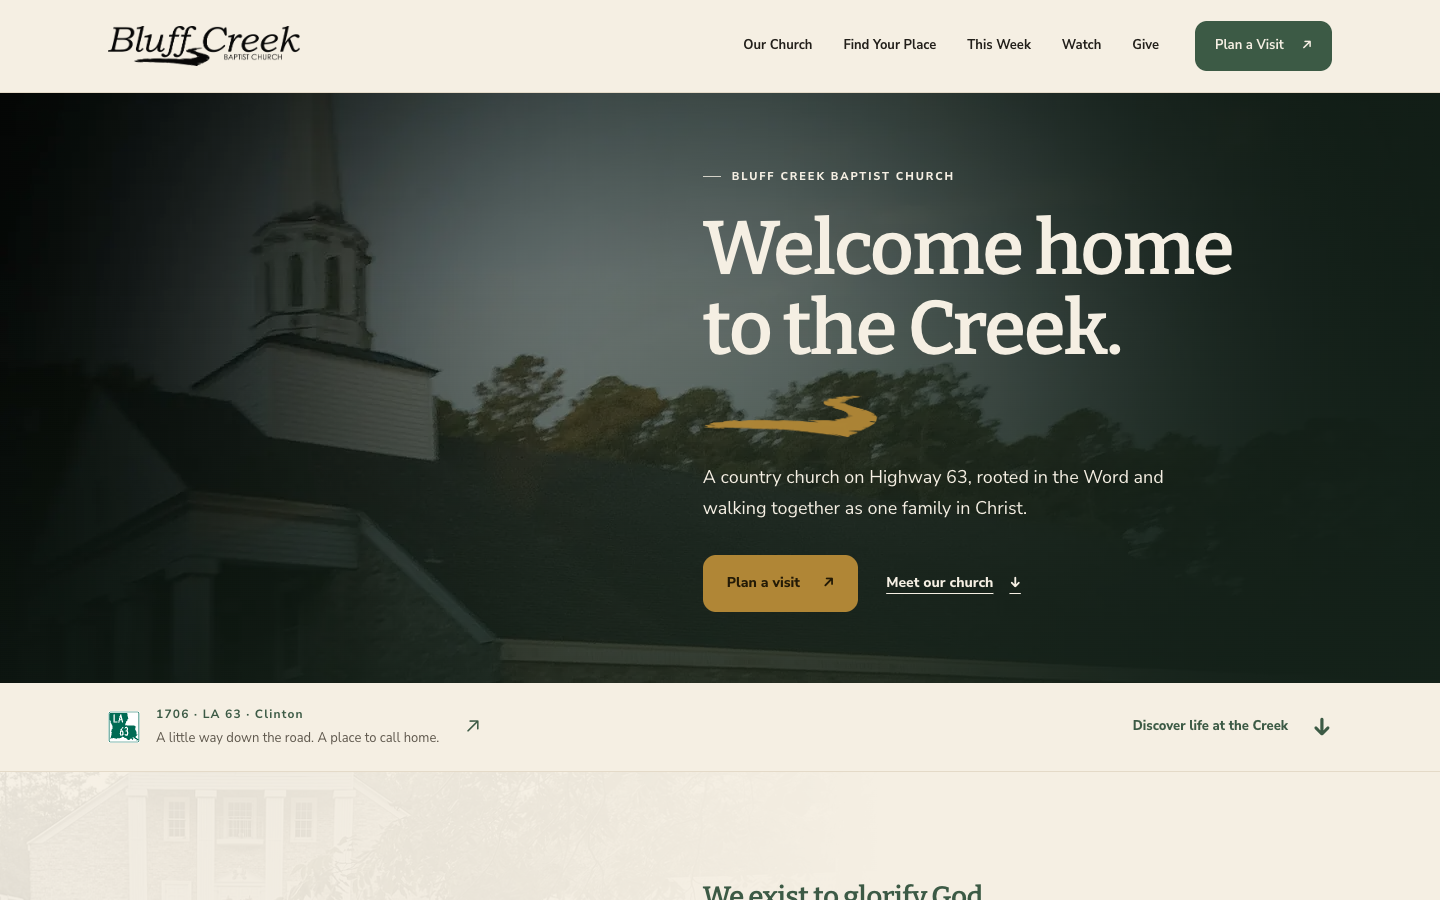
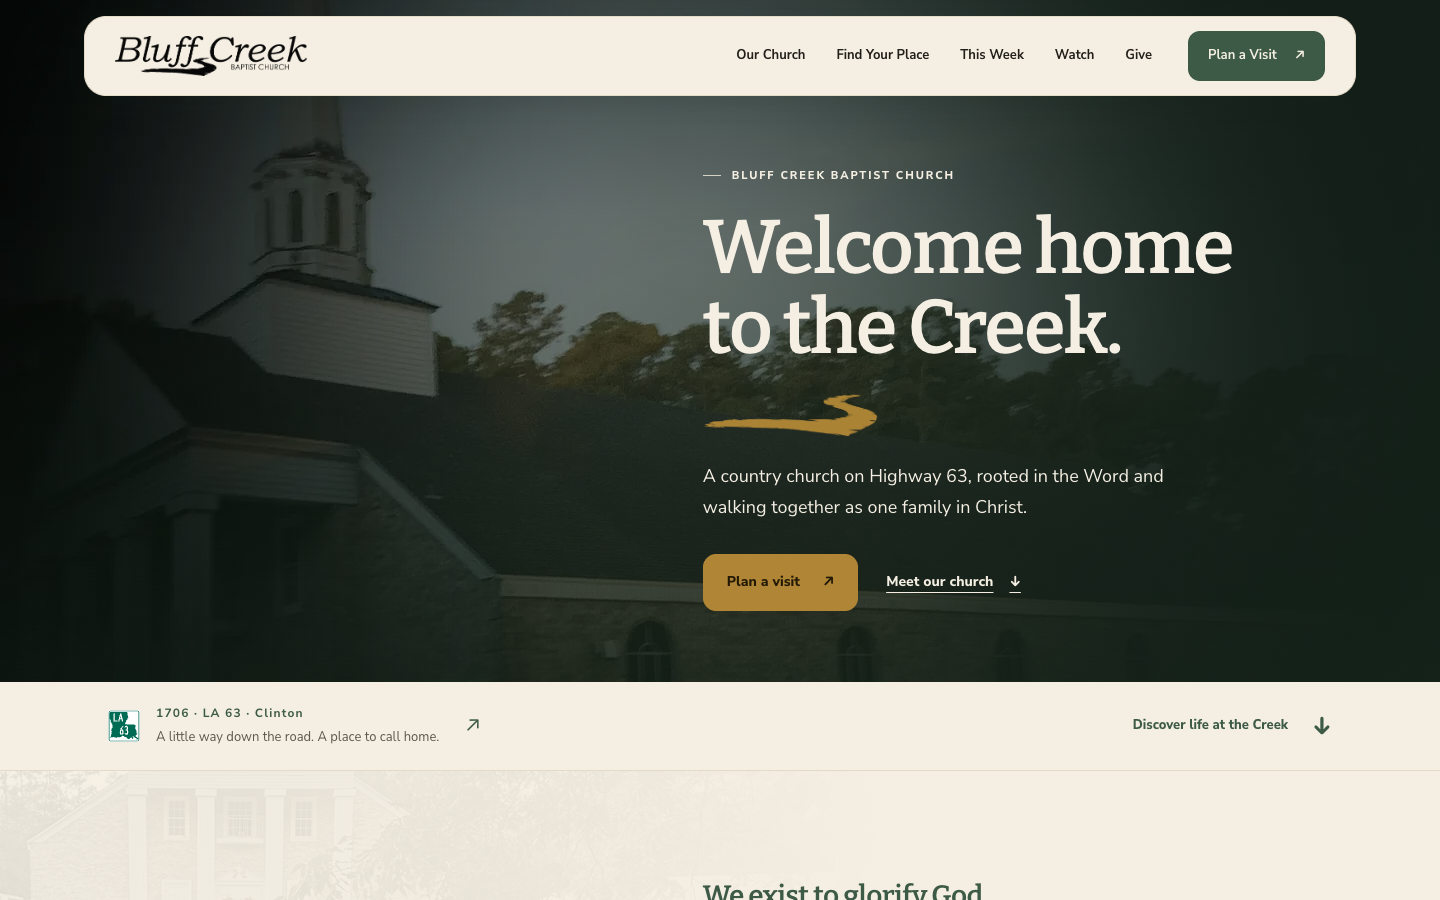
Float rounded Homestead navigation over the opening photograph

diff --git a/css/polish.css b/css/polish.css
@@ -526,11 +526,13 @@ footer a:focus-visible,.top a:focus-visible{outline-color:#e5c76f}
 /* Homepage: clear figure–ground, one primary action, and a sequence of
    place / belonging / worship / gathering / first visit. See the rationale. */
 .home-hero{position:relative;isolation:isolate;overflow:hidden;width:100vw;margin-left:calc(50% - 50vw);background:var(--pine-deep);color:var(--ivory)}
+.editorial.page-index .top{padding:16px 24px;margin-bottom:-112px;background:transparent;border:0;backdrop-filter:none}
+.editorial.page-index .top .wrap{height:80px;max-width:1272px;padding:0 30px;background:var(--ivory);border:1px solid var(--line);border-radius:22px;box-shadow:0 8px 24px rgba(22,37,28,.12)}
 .home-hero-photo{position:absolute;inset:0;z-index:-2}
 .home-hero-photo picture{display:block;width:100%;height:100%}
 .home-hero-photo img{width:100%;height:100%;object-fit:cover;object-position:center 32%}
 .home-hero::after{content:"";position:absolute;inset:0;z-index:-1;pointer-events:none;background:linear-gradient(90deg,rgba(22,37,28,.12),rgba(22,37,28,.56) 46%,rgba(22,37,28,.8)),linear-gradient(0deg,rgba(22,37,28,.5),transparent 70%)}
-.editorial .home-hero-grid{min-height:590px;display:grid;grid-template-columns:.9fr 1.1fr;gap:80px;align-items:center;padding-top:64px;padding-bottom:70px}
+.editorial .home-hero-grid{min-height:682px;display:grid;grid-template-columns:.9fr 1.1fr;gap:80px;align-items:center;padding-top:156px;padding-bottom:70px}
 .home-hero-copy{grid-column:2}
 .editorial .home-hero .eye{color:var(--ivory);margin:0 0 23px}
 .editorial .home-hero h1{font:600 clamp(48px,5.3vw,76px)/1.06 "Bitter",Georgia,serif;letter-spacing:-.025em;color:var(--ivory);margin:0}
@@ -596,8 +598,15 @@ footer a:focus-visible,.top a:focus-visible{outline-color:#e5c76f}
   .home-scroll{gap:14px;font-size:12px}
   .home-address span span{font-size:12px}
 }
+@media(max-width:1040px){
+  .editorial .home-hero-grid{min-height:672px;padding-top:146px}
+  .editorial.page-index nav.main{top:104px;max-height:calc(100dvh - 128px)}
+}
 @media(max-width:760px){
-  .editorial .home-hero-grid{display:block;min-height:590px;padding-top:156px;padding-bottom:48px}
+  .editorial.page-index .top{padding:12px;margin-bottom:-92px}
+  .editorial.page-index .top .wrap{height:68px;padding:0 18px;border-radius:18px;gap:12px}
+  .editorial.page-index nav.main{top:88px;left:12px;right:12px;max-height:calc(100dvh - 104px)}
+  .editorial .home-hero-grid{display:block;min-height:667px;padding-top:233px;padding-bottom:48px}
   .home-hero::after{background:linear-gradient(0deg,rgba(22,37,28,.92),rgba(22,37,28,.68) 70%,rgba(22,37,28,.25))}
   .home-hero-photo img{object-position:15% center}
   .editorial .home-hero h1{font-size:clamp(38px,10.5vw,56px)}
@@ -638,6 +647,7 @@ footer a:focus-visible,.top a:focus-visible{outline-color:#e5c76f}
   .home-pastor-note .textlink{margin-top:14px}
 }
 @media(max-width:380px){
+  .editorial.page-index .brand img{width:150px}
   .home-address span span{display:none}
   .home-hero .actions{gap:12px}
   .hero-secondary{gap:8px;font-size:12px}

diff --git a/about.html b/about.html
@@ -27,13 +27,18 @@
 <link rel="stylesheet" href="css/polish.css">
 <noscript><style>
 #cform{display:none}
+.editorial.page-index .top{margin-bottom:0;background:var(--ivory)}
+.editorial.page-index .home-hero-grid{min-height:590px;padding-top:64px}
 @media(max-width:1040px){
   .editorial .top{position:static}
   .editorial .top .wrap{height:auto;min-height:82px;flex-wrap:wrap;padding-top:14px;padding-bottom:14px}
+  .editorial.page-index .top .wrap{height:auto;min-height:68px;padding-top:14px;padding-bottom:14px}
+  .editorial.page-index nav.main{max-height:none}
   .editorial .burger{display:none}
   .editorial nav.main{display:flex;position:static;flex-direction:row;flex-wrap:wrap;width:100%;max-height:none;overflow:visible;border:0;box-shadow:none;padding:0}
   .editorial nav.main a.cta{margin:0}
 }
+@media(max-width:760px){.editorial.page-index .home-hero-grid{padding-top:156px}}
 </style></noscript>
 <script type="application/ld+json">{
   "@context": "https://schema.org",

diff --git a/beliefs.html b/beliefs.html
@@ -27,13 +27,18 @@
 <link rel="stylesheet" href="css/polish.css">
 <noscript><style>
 #cform{display:none}
+.editorial.page-index .top{margin-bottom:0;background:var(--ivory)}
+.editorial.page-index .home-hero-grid{min-height:590px;padding-top:64px}
 @media(max-width:1040px){
   .editorial .top{position:static}
   .editorial .top .wrap{height:auto;min-height:82px;flex-wrap:wrap;padding-top:14px;padding-bottom:14px}
+  .editorial.page-index .top .wrap{height:auto;min-height:68px;padding-top:14px;padding-bottom:14px}
+  .editorial.page-index nav.main{max-height:none}
   .editorial .burger{display:none}
   .editorial nav.main{display:flex;position:static;flex-direction:row;flex-wrap:wrap;width:100%;max-height:none;overflow:visible;border:0;box-shadow:none;padding:0}
   .editorial nav.main a.cta{margin:0}
 }
+@media(max-width:760px){.editorial.page-index .home-hero-grid{padding-top:156px}}
 </style></noscript>
 <script type="application/ld+json">{
   "@context": "https://schema.org",

diff --git a/contact.html b/contact.html
@@ -27,13 +27,18 @@
 <link rel="stylesheet" href="css/polish.css">
 <noscript><style>
 #cform{display:none}
+.editorial.page-index .top{margin-bottom:0;background:var(--ivory)}
+.editorial.page-index .home-hero-grid{min-height:590px;padding-top:64px}
 @media(max-width:1040px){
   .editorial .top{position:static}
   .editorial .top .wrap{height:auto;min-height:82px;flex-wrap:wrap;padding-top:14px;padding-bottom:14px}
+  .editorial.page-index .top .wrap{height:auto;min-height:68px;padding-top:14px;padding-bottom:14px}
+  .editorial.page-index nav.main{max-height:none}
   .editorial .burger{display:none}
   .editorial nav.main{display:flex;position:static;flex-direction:row;flex-wrap:wrap;width:100%;max-height:none;overflow:visible;border:0;box-shadow:none;padding:0}
   .editorial nav.main a.cta{margin:0}
 }
+@media(max-width:760px){.editorial.page-index .home-hero-grid{padding-top:156px}}
 </style></noscript>
 <script type="application/ld+json">{
   "@context": "https://schema.org",

diff --git a/give.html b/give.html
@@ -27,13 +27,18 @@
 <link rel="stylesheet" href="css/polish.css">
 <noscript><style>
 #cform{display:none}
+.editorial.page-index .top{margin-bottom:0;background:var(--ivory)}
+.editorial.page-index .home-hero-grid{min-height:590px;padding-top:64px}
 @media(max-width:1040px){
   .editorial .top{position:static}
   .editorial .top .wrap{height:auto;min-height:82px;flex-wrap:wrap;padding-top:14px;padding-bottom:14px}
+  .editorial.page-index .top .wrap{height:auto;min-height:68px;padding-top:14px;padding-bottom:14px}
+  .editorial.page-index nav.main{max-height:none}
   .editorial .burger{display:none}
   .editorial nav.main{display:flex;position:static;flex-direction:row;flex-wrap:wrap;width:100%;max-height:none;overflow:visible;border:0;box-shadow:none;padding:0}
   .editorial nav.main a.cta{margin:0}
 }
+@media(max-width:760px){.editorial.page-index .home-hero-grid{padding-top:156px}}
 </style></noscript>
 <script type="application/ld+json">{
   "@context": "https://schema.org",

diff --git a/index.html b/index.html
@@ -27,13 +27,18 @@
 <link rel="stylesheet" href="css/polish.css">
 <noscript><style>
 #cform{display:none}
+.editorial.page-index .top{margin-bottom:0;background:var(--ivory)}
+.editorial.page-index .home-hero-grid{min-height:590px;padding-top:64px}
 @media(max-width:1040px){
   .editorial .top{position:static}
   .editorial .top .wrap{height:auto;min-height:82px;flex-wrap:wrap;padding-top:14px;padding-bottom:14px}
+  .editorial.page-index .top .wrap{height:auto;min-height:68px;padding-top:14px;padding-bottom:14px}
+  .editorial.page-index nav.main{max-height:none}
   .editorial .burger{display:none}
   .editorial nav.main{display:flex;position:static;flex-direction:row;flex-wrap:wrap;width:100%;max-height:none;overflow:visible;border:0;box-shadow:none;padding:0}
   .editorial nav.main a.cta{margin:0}
 }
+@media(max-width:760px){.editorial.page-index .home-hero-grid{padding-top:156px}}
 </style></noscript>
 <script type="application/ld+json">{
   "@context": "https://schema.org",

diff --git a/membership.html b/membership.html
@@ -27,13 +27,18 @@
 <link rel="stylesheet" href="css/polish.css">
 <noscript><style>
 #cform{display:none}
+.editorial.page-index .top{margin-bottom:0;background:var(--ivory)}
+.editorial.page-index .home-hero-grid{min-height:590px;padding-top:64px}
 @media(max-width:1040px){
   .editorial .top{position:static}
   .editorial .top .wrap{height:auto;min-height:82px;flex-wrap:wrap;padding-top:14px;padding-bottom:14px}
+  .editorial.page-index .top .wrap{height:auto;min-height:68px;padding-top:14px;padding-bottom:14px}
+  .editorial.page-index nav.main{max-height:none}
   .editorial .burger{display:none}
   .editorial nav.main{display:flex;position:static;flex-direction:row;flex-wrap:wrap;width:100%;max-height:none;overflow:visible;border:0;box-shadow:none;padding:0}
   .editorial nav.main a.cta{margin:0}
 }
+@media(max-width:760px){.editorial.page-index .home-hero-grid{padding-top:156px}}
 </style></noscript>
 <script type="application/ld+json">{
   "@context": "https://schema.org",

diff --git a/ministries.html b/ministries.html
@@ -27,13 +27,18 @@
 <link rel="stylesheet" href="css/polish.css">
 <noscript><style>
 #cform{display:none}
+.editorial.page-index .top{margin-bottom:0;background:var(--ivory)}
+.editorial.page-index .home-hero-grid{min-height:590px;padding-top:64px}
 @media(max-width:1040px){
   .editorial .top{position:static}
   .editorial .top .wrap{height:auto;min-height:82px;flex-wrap:wrap;padding-top:14px;padding-bottom:14px}
+  .editorial.page-index .top .wrap{height:auto;min-height:68px;padding-top:14px;padding-bottom:14px}
+  .editorial.page-index nav.main{max-height:none}
   .editorial .burger{display:none}
   .editorial nav.main{display:flex;position:static;flex-direction:row;flex-wrap:wrap;width:100%;max-height:none;overflow:visible;border:0;box-shadow:none;padding:0}
   .editorial nav.main a.cta{margin:0}
 }
+@media(max-width:760px){.editorial.page-index .home-hero-grid{padding-top:156px}}
 </style></noscript>
 <script type="application/ld+json">{
   "@context": "https://schema.org",

diff --git a/missions.html b/missions.html
@@ -27,13 +27,18 @@
 <link rel="stylesheet" href="css/polish.css">
 <noscript><style>
 #cform{display:none}
+.editorial.page-index .top{margin-bottom:0;background:var(--ivory)}
+.editorial.page-index .home-hero-grid{min-height:590px;padding-top:64px}
 @media(max-width:1040px){
   .editorial .top{position:static}
   .editorial .top .wrap{height:auto;min-height:82px;flex-wrap:wrap;padding-top:14px;padding-bottom:14px}
+  .editorial.page-index .top .wrap{height:auto;min-height:68px;padding-top:14px;padding-bottom:14px}
+  .editorial.page-index nav.main{max-height:none}
   .editorial .burger{display:none}
   .editorial nav.main{display:flex;position:static;flex-direction:row;flex-wrap:wrap;width:100%;max-height:none;overflow:visible;border:0;box-shadow:none;padding:0}
   .editorial nav.main a.cta{margin:0}
 }
+@media(max-width:760px){.editorial.page-index .home-hero-grid{padding-top:156px}}
 </style></noscript>
 <script type="application/ld+json">{
   "@context": "https://schema.org",

diff --git a/times.html b/times.html
@@ -27,13 +27,18 @@
 <link rel="stylesheet" href="css/polish.css">
 <noscript><style>
 #cform{display:none}
+.editorial.page-index .top{margin-bottom:0;background:var(--ivory)}
+.editorial.page-index .home-hero-grid{min-height:590px;padding-top:64px}
 @media(max-width:1040px){
   .editorial .top{position:static}
   .editorial .top .wrap{height:auto;min-height:82px;flex-wrap:wrap;padding-top:14px;padding-bottom:14px}
+  .editorial.page-index .top .wrap{height:auto;min-height:68px;padding-top:14px;padding-bottom:14px}
+  .editorial.page-index nav.main{max-height:none}
   .editorial .burger{display:none}
   .editorial nav.main{display:flex;position:static;flex-direction:row;flex-wrap:wrap;width:100%;max-height:none;overflow:visible;border:0;box-shadow:none;padding:0}
   .editorial nav.main a.cta{margin:0}
 }
+@media(max-width:760px){.editorial.page-index .home-hero-grid{padding-top:156px}}
 </style></noscript>
 <script type="application/ld+json">{
   "@context": "https://schema.org",

diff --git a/visit.html b/visit.html
@@ -27,13 +27,18 @@
 <link rel="stylesheet" href="css/polish.css">
 <noscript><style>
 #cform{display:none}
+.editorial.page-index .top{margin-bottom:0;background:var(--ivory)}
+.editorial.page-index .home-hero-grid{min-height:590px;padding-top:64px}
 @media(max-width:1040px){
   .editorial .top{position:static}
   .editorial .top .wrap{height:auto;min-height:82px;flex-wrap:wrap;padding-top:14px;padding-bottom:14px}
+  .editorial.page-index .top .wrap{height:auto;min-height:68px;padding-top:14px;padding-bottom:14px}
+  .editorial.page-index nav.main{max-height:none}
   .editorial .burger{display:none}
   .editorial nav.main{display:flex;position:static;flex-direction:row;flex-wrap:wrap;width:100%;max-height:none;overflow:visible;border:0;box-shadow:none;padding:0}
   .editorial nav.main a.cta{margin:0}
 }
+@media(max-width:760px){.editorial.page-index .home-hero-grid{padding-top:156px}}
 </style></noscript>
 <script type="application/ld+json">{
   "@context": "https://schema.org",

diff --git a/watch.html b/watch.html
@@ -27,13 +27,18 @@
 <link rel="stylesheet" href="css/polish.css">
 <noscript><style>
 #cform{display:none}
+.editorial.page-index .top{margin-bottom:0;background:var(--ivory)}
+.editorial.page-index .home-hero-grid{min-height:590px;padding-top:64px}
 @media(max-width:1040px){
   .editorial .top{position:static}
   .editorial .top .wrap{height:auto;min-height:82px;flex-wrap:wrap;padding-top:14px;padding-bottom:14px}
+  .editorial.page-index .top .wrap{height:auto;min-height:68px;padding-top:14px;padding-bottom:14px}
+  .editorial.page-index nav.main{max-height:none}
   .editorial .burger{display:none}
   .editorial nav.main{display:flex;position:static;flex-direction:row;flex-wrap:wrap;width:100%;max-height:none;overflow:visible;border:0;box-shadow:none;padding:0}
   .editorial nav.main a.cta{margin:0}
 }
+@media(max-width:760px){.editorial.page-index .home-hero-grid{padding-top:156px}}
 </style></noscript>
 <script type="application/ld+json">{
   "@context": "https://schema.org",
